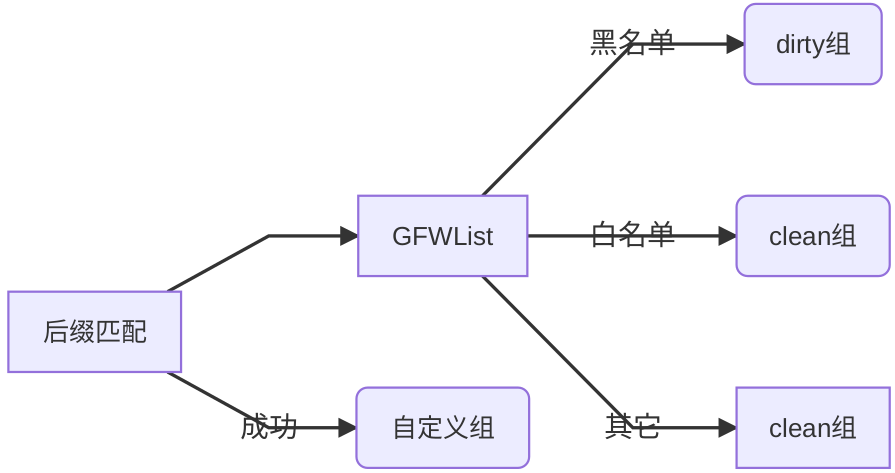
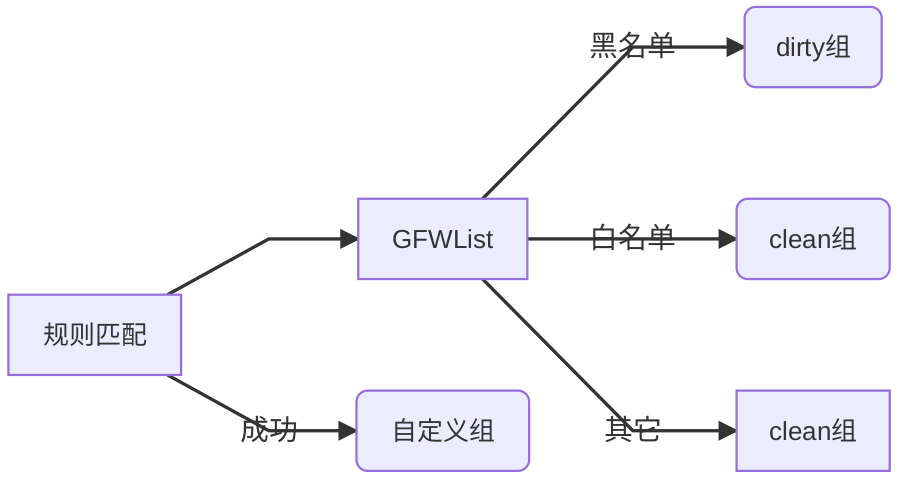
[doc]更新文档和配置文件

diff --git a/README.md b/README.md
@@ -1,5 +1,5 @@
 # Telescope DNS
-* 支持按域名后缀匹配/GFWList匹配测进行分组
+* 支持按规则匹配/GFWList匹配对域名进行分组
 * 支持多hosts文件 + 手动指定hosts
 * DNS查询支持socks5代理
 * DNS记录缓存
@@ -33,7 +33,7 @@
 
     [groups.dirty]
     dns = [""]  # 省略
-    suffix = ["google.com", "twimg.com", "quoracdn.net"]
+    rules = ["google.com"]
   ```
 
 2. 使用自定义hosts文件
@@ -63,7 +63,7 @@
   # 其余同默认配置
     [groups.work]
     dns = ["10.1.1.1"]
-    suffix = ["company.com"]
+    rules = ["company.com"]
   ```
 
 6. 动态添加IPSet记录（使用前请阅读`ts-dns.full.toml`对应说明）
@@ -71,7 +71,7 @@
   # 其余同默认配置
     [groups.dirty]
     dns = [""]  # 省略
-    suffix = ["google.com", "twimg.com", "quoracdn.net"]
+    rules = ["google.com"]
     ipset = "blocked"
     ipset_ttl = 86400
   ```
